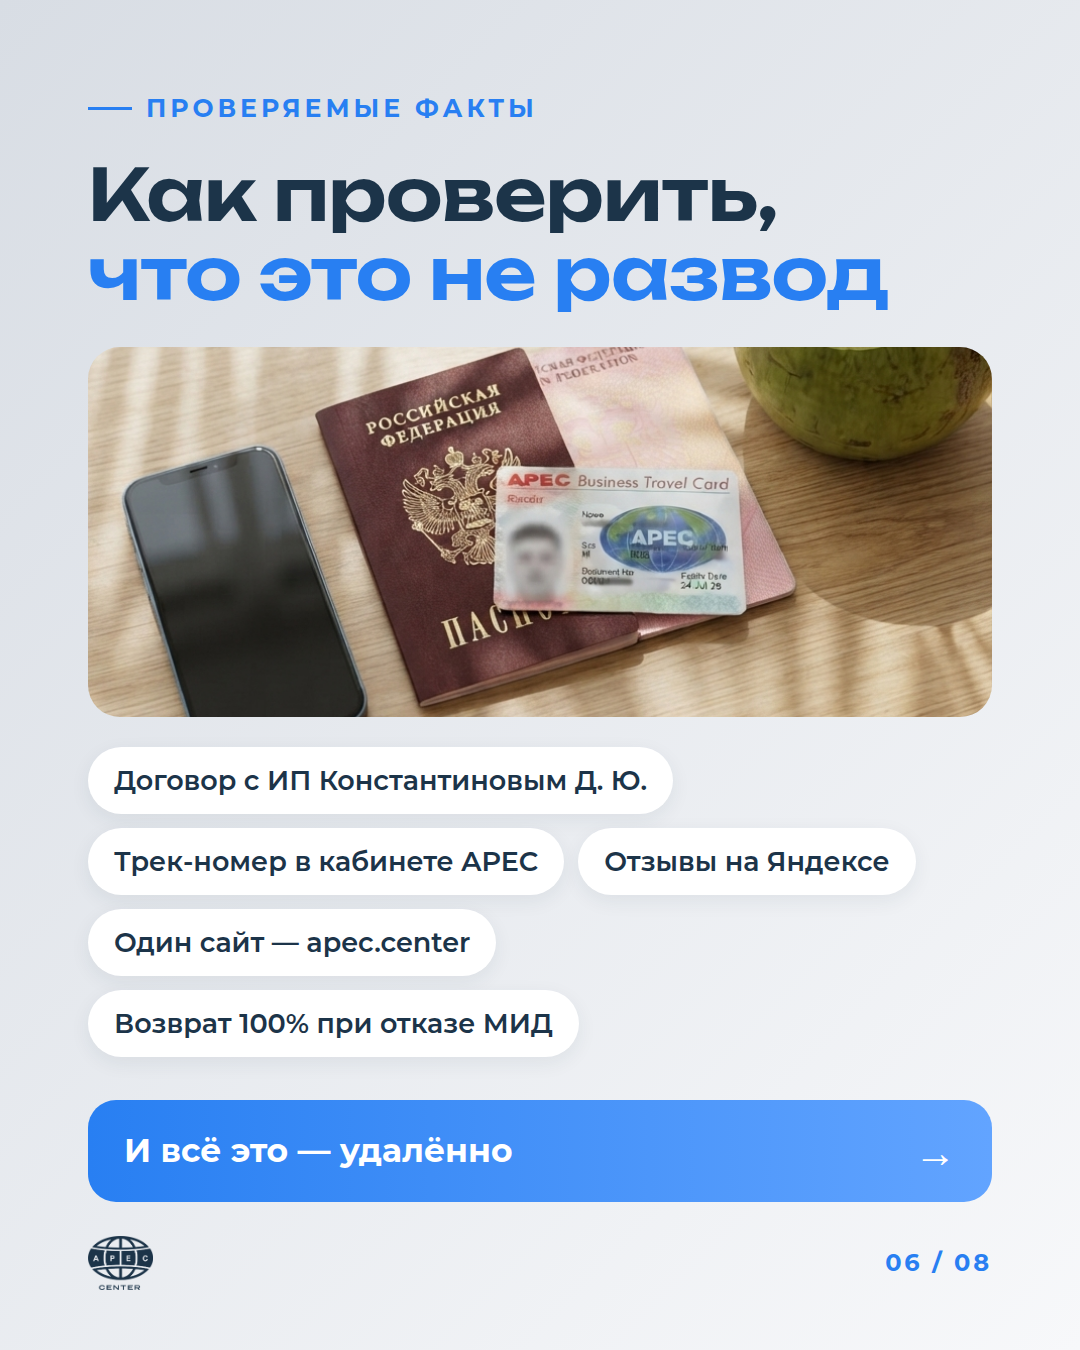
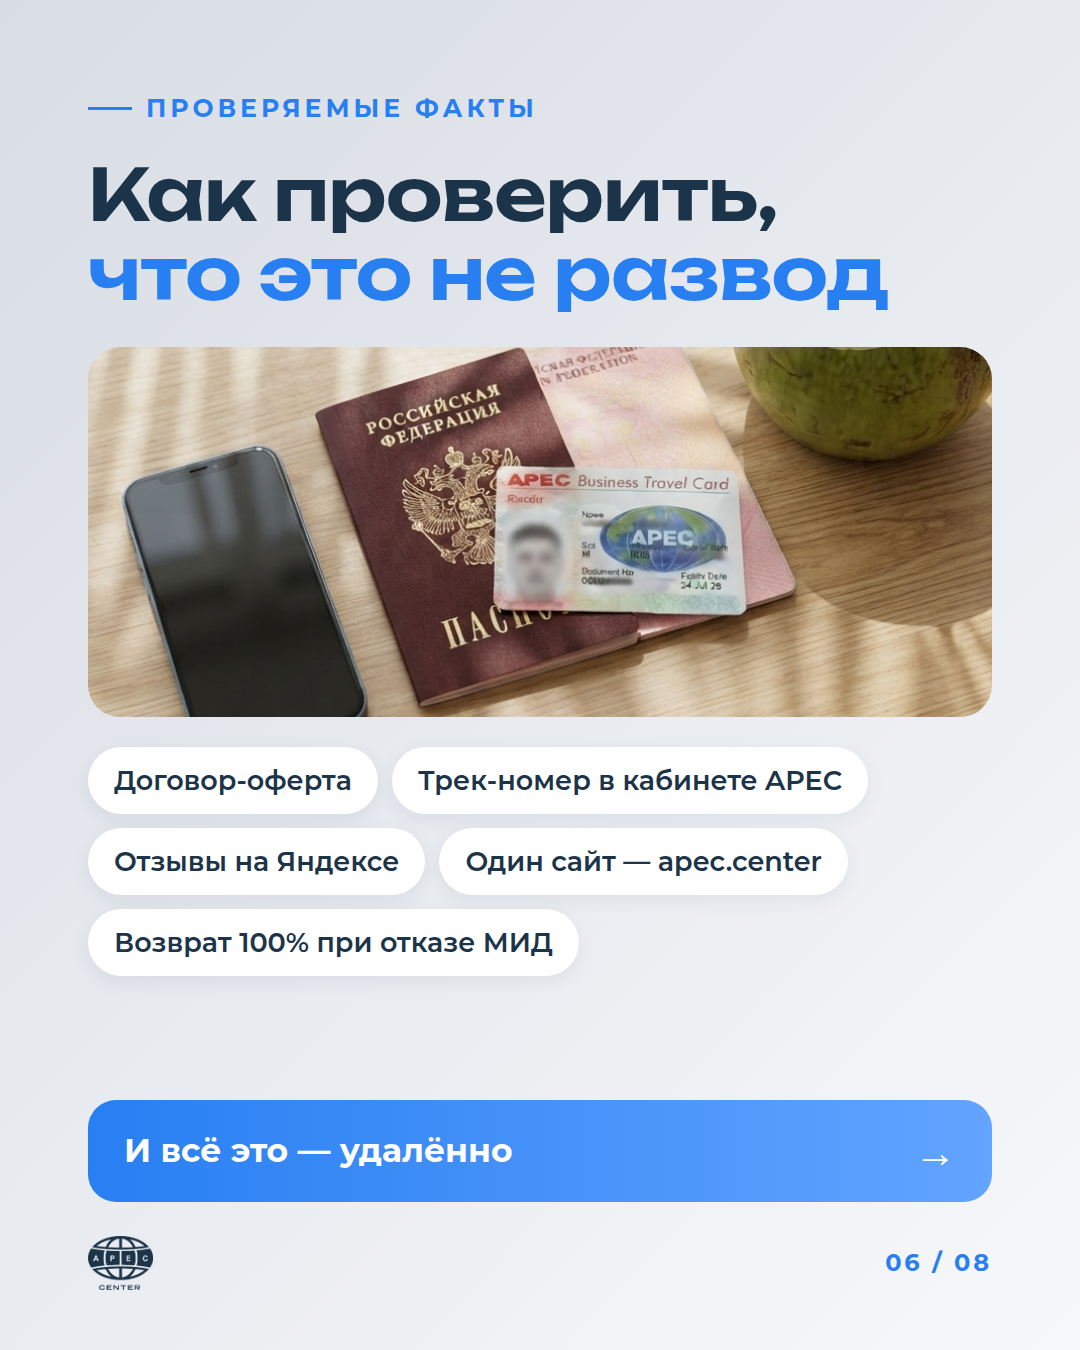
Remove executor name from legal carousel
Claude-Session: https://claude.ai/code/session_01KUW5gvDSgVLbfC5BPYxotx

Changed region(s): [[0.0611, 0.5289, 0.825, 0.7778]]

diff --git a/carousels/aleks-legal-90/slides.html b/carousels/aleks-legal-90/slides.html
@@ -261,7 +261,7 @@
     <h2>Как проверить, <span class="accent">что&nbsp;это не&nbsp;развод</span></h2>
     <div class="photo-box" style="background-image:url(bg/check.png); height:370px; background-position:center 55%"></div>
     <div class="chips-l">
-      <span class="chip-l">Договор с ИП Константиновым Д.&nbsp;Ю.</span>
+      <span class="chip-l">Договор-оферта</span>
       <span class="chip-l">Трек-номер в кабинете APEC</span>
       <span class="chip-l">Отзывы на Яндексе</span>
       <span class="chip-l">Один сайт — apec.center</span>

diff --git a/carousel-brief.md b/carousel-brief.md
@@ -46,7 +46,7 @@
 - Главная цифра: «Без карты — около 11 бордерранов в год, с картой — 4, раз в квартал». Безвиз 30 дней, продление +30 только раз в году.
 - Первый шаг: «Бесплатно проверим паспорт — 2 минуты, ни к чему не обязывает».
 - Цена прямо: «от 60 000 до 120 000 ₽, госпошлины и временная карта включены, всё удалённо».
-- Доверие только проверяемыми фактами: МИД РФ; подача через ТПП РФ, РСПП или «Опору России»; договор с ИП Константиновым Д. Ю.; трек-номер в официальном кабинете APEC; отзывы на Яндексе; один сайт apec.center; возврат 100% при официальном отказе МИД РФ или APEC. Никогда «нам можно доверять».
+- Доверие только проверяемыми фактами: МИД РФ; подача через ТПП РФ, РСПП или «Опору России»; договор-оферта (имя исполнителя в контенте не указываем); трек-номер в официальном кабинете APEC; отзывы на Яндексе; один сайт apec.center; возврат 100% при официальном отказе МИД РФ или APEC. Никогда «нам можно доверять».
 - «Я не бизнесмен»: включают в компанию с реальной ВЭД как международного представителя, бухгалтерия и отчёты не нужны. Не советовать «откройте ИП», не называть компании-партнёров.
 - Удалённо: ни поездки в Россию, ни МИДа, ни собеседований; доставка курьером по России и в Таиланд бесплатно.
 - Куда ещё: Сингапур и Тайвань без визы; Гонконг 60 вместо 14; Малайзия, Китай 60 вместо 30; Корея 90 без K-ETA. Расширение до 90 в Китае и др. — только «объявлено, дата не назначена».
